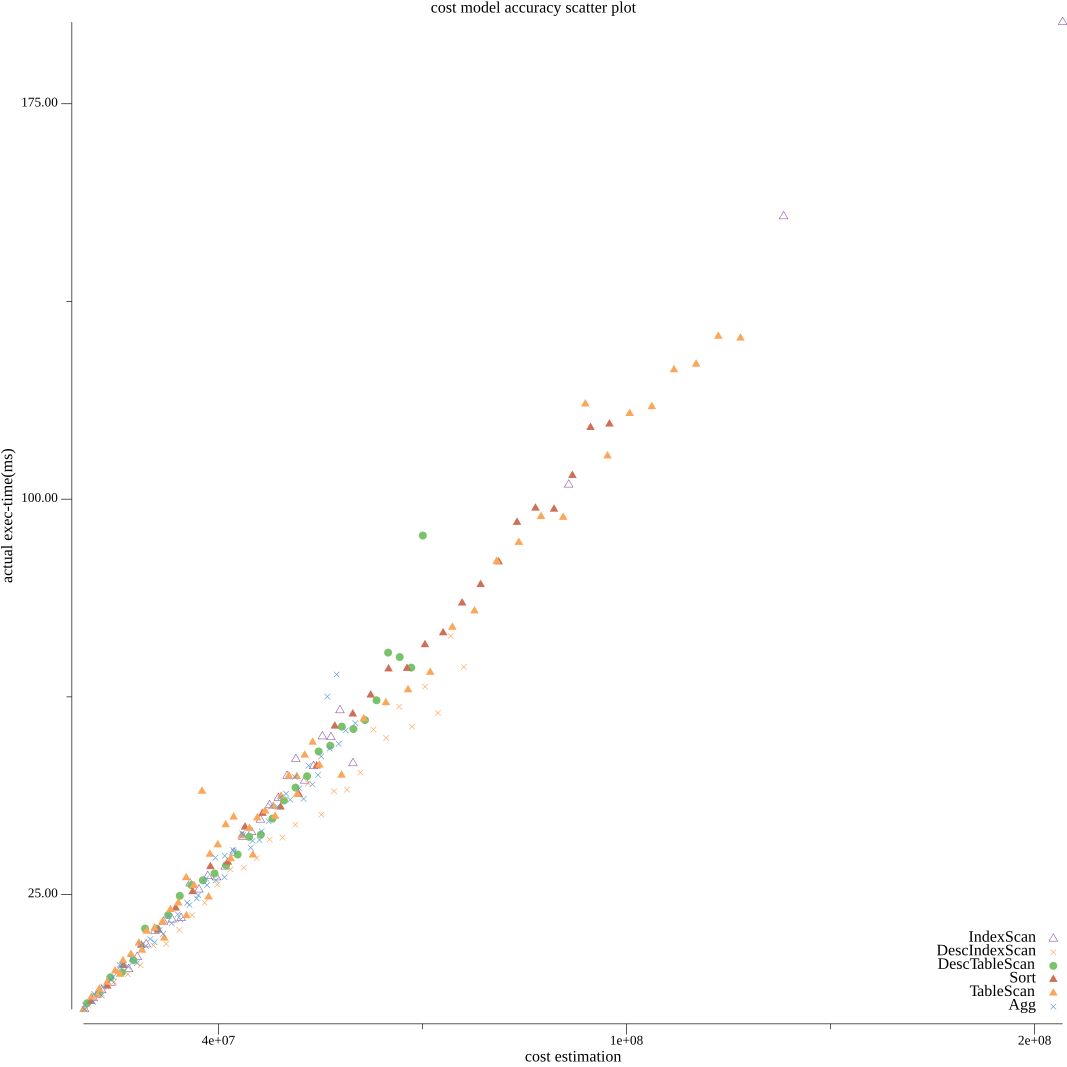
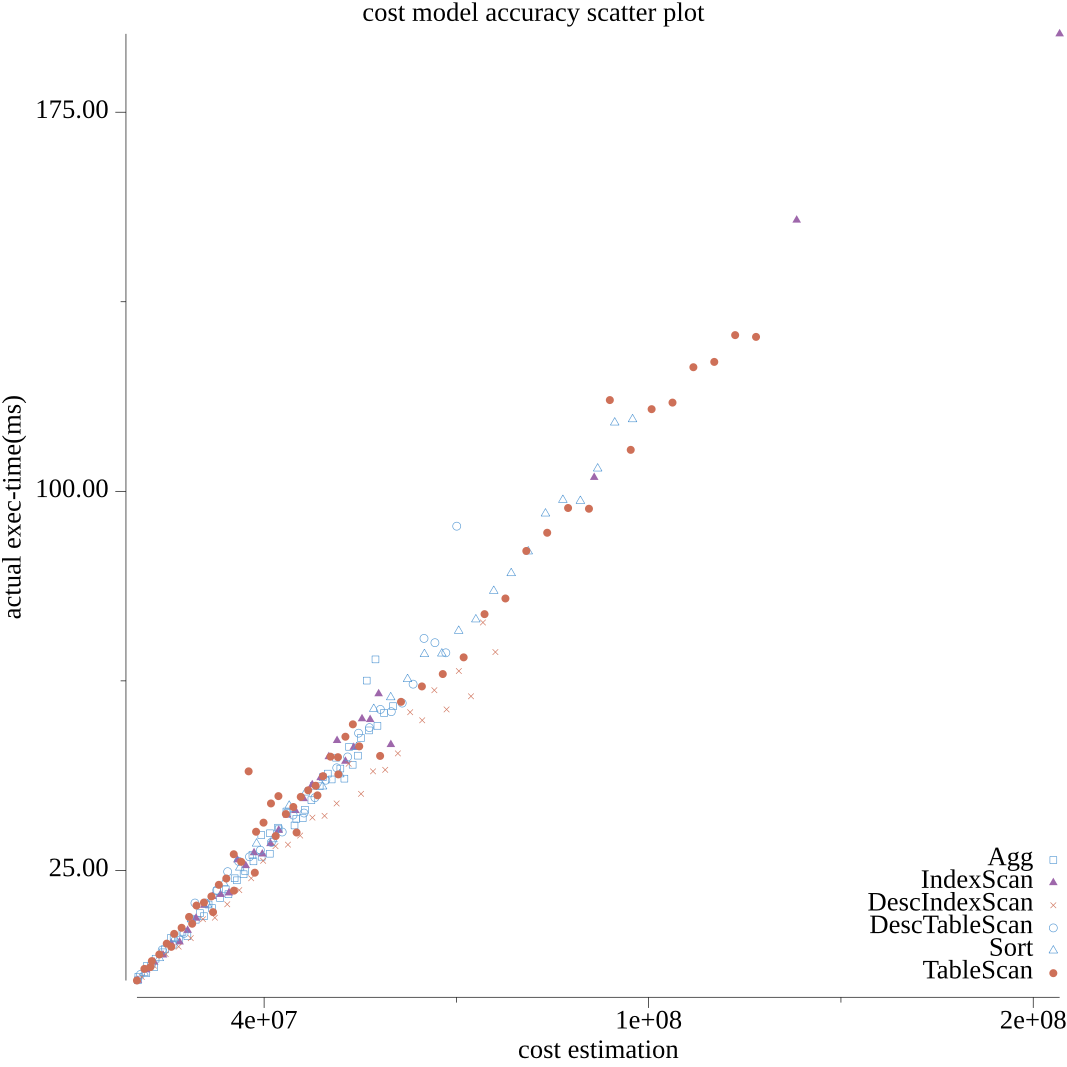
fixup

diff --git a/cost/costeval.go b/cost/costeval.go
@@ -27,18 +27,18 @@ func CostEval() {
 	}
 
 	opts := []*evalOpt{
-		{"imdb", "imdb", "original", 30, 2, 3000},
-		{"imdb", "imdb", "calibrated", 30, 2, 3000},
-		{"tpch1g", "tpch", "original", 30, 2, 2000},
-		{"tpch1g", "tpch", "calibrated", 30, 2, 2000},
-		{"synthetic", "synthetic", "original", 30, 2, 500},
+		//{"imdb", "imdb", "original", 30, 2, 3000},
+		//{"imdb", "imdb", "calibrated", 30, 2, 3000},
+		//{"tpch1g", "tpch", "original", 30, 2, 2000},
+		//{"tpch1g", "tpch", "calibrated", 30, 2, 2000},
+		//{"synthetic", "synthetic", "original", 30, 2, 500},
 		{"synthetic", "synthetic", "calibrated", 30, 2, 500},
 	}
 
 	for _, opt := range opts {
 		evalOnDataset(ins, opt)
 	}
-	drawSummary(opts)
+	//drawSummary(opts)
 
 	//genSyntheticData(ins, 100000, "synthetic")
 }

diff --git a/cost/draw.go b/cost/draw.go
@@ -20,8 +20,13 @@ func (r Records) XY(k int) (x, y float64) {
 func drawCostRecordsTo(r Records, f string) {
 	p := plot.New()
 	p.Title.Text = "cost model accuracy scatter plot"
+	p.Title.TextStyle.Font.Size = 20
 	p.X.Label.Text = "cost estimation"
+	p.X.Tick.Label.Font.Size = 20
+	p.Y.Tick.Label.Font.Size = 20
+	p.X.Label.TextStyle.Font.Size = 20
 	p.Y.Label.Text = "actual exec-time(ms)"
+	p.Y.Label.TextStyle.Font.Size = 20
 
 	labledRecords := make(map[string]Records)
 	for _, record := range r {
@@ -38,6 +43,7 @@ func drawCostRecordsTo(r Records, f string) {
 		s.GlyphStyle.Radius = vg.Points(3)
 		p.Add(s)
 		p.Legend.Add(label, s)
+		p.Legend.TextStyle.Font.Size = 20
 	}
 
 	err := p.Save(800, 800, f)
